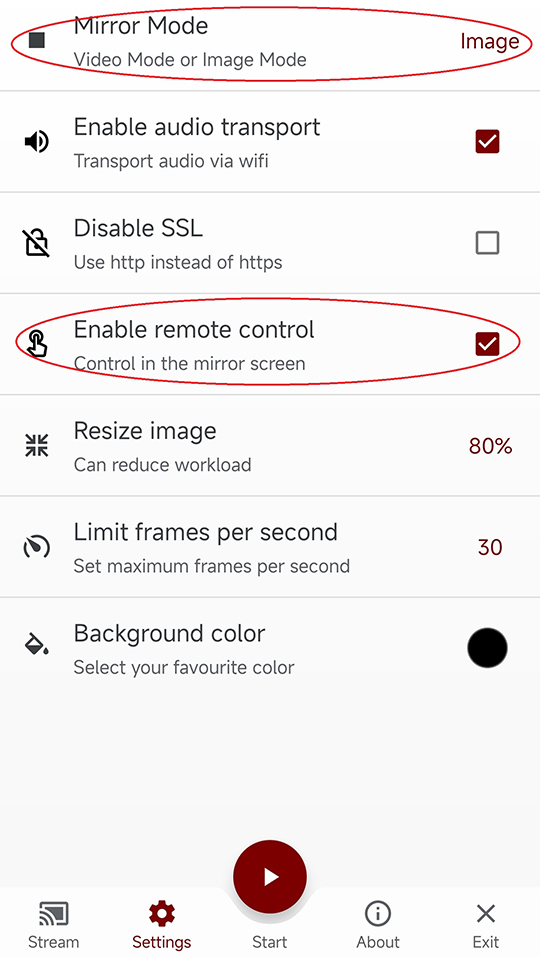
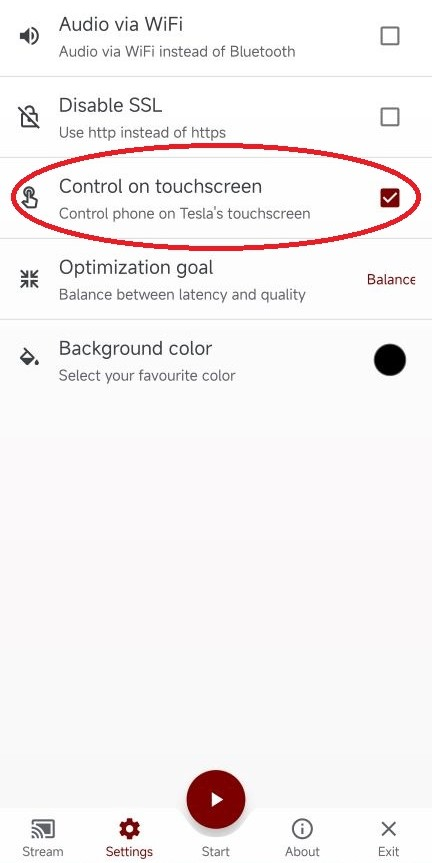
add uber and update screenshot

diff --git a/_pages/uber.md b/_pages/uber.md
@@ -1,28 +1,17 @@
 ---
 layout: how-to
-permalink: /gmap/
-title: How to use Google Map in Tesla's touchscreen?
-description: We can cast the Google Map app to Tesla's big touchscreen while driving, and can even manipulate the Google Map app on Tesla's touchscreen directly.
+permalink: /uber/
+title: How to use Uber on Tesla?
+description: We can cast the Uber Driver app to Tesla's big touchscreen while driving, and we can even manipulate the Uber app on Tesla's touchscreen directly.
 nav: false
 social: true  # includes social icons at the bottom of the page
 nav_order: 1
 categories: tutorial
-img_url: /assets/img/gmap-on-screen.jpg
-img_width: 1080
-img_height: 1920
 ---
-<!-- _pages/gmap.md -->
-<!-- blank line -->
-<figure class="video-container">
-  <iframe width="540" height="303" src="https://www.youtube.com/embed/92OYkMitWQI" frameborder="0" allowfullscreen="true"> </iframe>
-</figure>
-<!-- blank line -->
 
-## Get more details?
-<p><a href ="https://discord.gg/Tvbs9uWcN9" target="_blank">Join our Discord</a></p>
-<p><a href ="https://groups.google.com/g/tesla-display" target="_blank">Discuss in Google Group</a></p>
+If you are an Uber driver driving a Tesla, it is not safe to use the Uber Driver app while driving. This article will show you how to mirror your phone screen to Tesla's big touchscreen.
 
-## 1. Preparation
+## 1. Install the app
 For Android users
 <a id="googleplay" href ="https://play.google.com/store/apps/details?id=io.github.blackpill.tesladisplay&referrer=utm_source%3Dgithub%26utm_medium%3Dorganic"><img src="/assets/img/google-play-badge.svg" height="100px"></a>
 
@@ -34,30 +23,24 @@ For iOS users
 Then make sure that the Tesla EV is connected to the Wi-Fi hotspot of your phone.</p>
 <p><span style="color: red"><b>IMPORTANT!!!</b></span> The option "Remain connected in Drive" must be checked.</p>
 <img src="/assets/img/wifi-connected.jpg" height="500px"></a>
-</p>
 ## 3. Config in the Tesla Display app
 <p style="text-align: center;">
-<img src="/assets/img/settings-nav.jpg" alt="The settings of Tesla Display app for using Google Maps" width="540px">
+<img src="/assets/img/settings-nav.jpg" alt="The settings of Tesla Display app for using Uber" width="540px">
 </p>
 Open the Tesla Display app, and click the setting tab.
-It's strongly recommended to set the "Control on touchscreen" option checked. When it is checked, we can manipulate the Google Map app directly on Tesla's touchscreen.
+It's strongly recommended to set the "Control on touchscreen" option checked. When it is checked, we can manipulate the Uber app directly on Tesla's touchscreen.
 ## 4. Mirror to Tesla's touchscreen
 <p style="text-align: center;">
-<img src="/assets/img/phone-screen.jpg" alt="The start choice of Tesla Display app for using Google Maps" width="540px">
+<img src="/assets/img/phone-screen.jpg" alt="The start choice of Tesla Display app for using Uber" width="540px">
 </p>
 After setting, click the start button of Tesla Display. Choose "Phone screen when driving". After a moment, the phone screen starts mirroring.
 Then open the web browser of Tesla EV, access the URL <span style="color:blue">https://td9.cc:7777</span>. Now we can see the phone screen in the web browser.
-## 5. Using the Google Map app
-<p style="text-align: center;">
-<img src="/assets/img/gmap-on-screen.jpg" alt="The screenshot of using Google Maps on Tesla's screen" width="540px">
-</p>
-Now, we open the Google Map app in the phone, and we can see the Google Map app is casted to Tesla's touchscreen.
-Then we can set the destination in the Google Map app.
-
+## 5. Using the Uber app
+Now, we open the Uber app in the phone, and we can see the Uber app is casted to Tesla's touchscreen.
 ## 6. About the sound
 Make sure that the Bluetooth is enabled in the phone and connected to the Tesla EV.
 Set the sound source of Tesla to Bluetooth.
-Then we can hear the alert sound of Google Map from Tesla's speakers.
+Then we can hear the alert sound of Uber from Tesla's speakers.
 
 ## Get more details?
 <p><a href ="https://discord.gg/Tvbs9uWcN9" target="_blank">Join our Discord</a></p>

diff --git a/_pages/waze.md b/_pages/waze.md
@@ -49,9 +49,9 @@ We must set the "Mirror Mode" option to "Image Mode" because only "Image Mode" c
 It's strongly recommended to set the "Enable remote control" option checked. When it is checked, we can manipulate the Waze app directly on Tesla's touchscreen.
 ## 4. Mirror to Tesla's touchscreen
 <p style="text-align: center;">
-<img src="/assets/img/phone-screen.png" alt="The start choice of Tesla Display app for using Waze" width="540px">
+<img src="/assets/img/phone-screen.jpg" alt="The start choice of Tesla Display app for using Waze" width="540px">
 </p>
-After setting, click the start button of Tesla Display. Choose "Phone screen". After a moment, the phone screen starts mirroring.
+After setting, click the start button of Tesla Display. Choose "Phone screen when driving". After a moment, the phone screen starts mirroring.
 Then open the web browser of Tesla EV, access the URL <span style="color:blue">https://td9.cc:7777</span>. Now we can see the phone screen in the web browser.
 ## 5. Using the Waze app
 <p style="text-align: center;">

diff --git a/_pages/dropdown.md b/_pages/dropdown.md
@@ -18,6 +18,9 @@ children:
     - title: Tiktok
       permalink: /tiktok/
     - title: divider
+    - title: Uber
+      permalink: /uber/
+    - title: divider
     - title: Karaoke
       permalink: /karaoke/
     - title: divider
